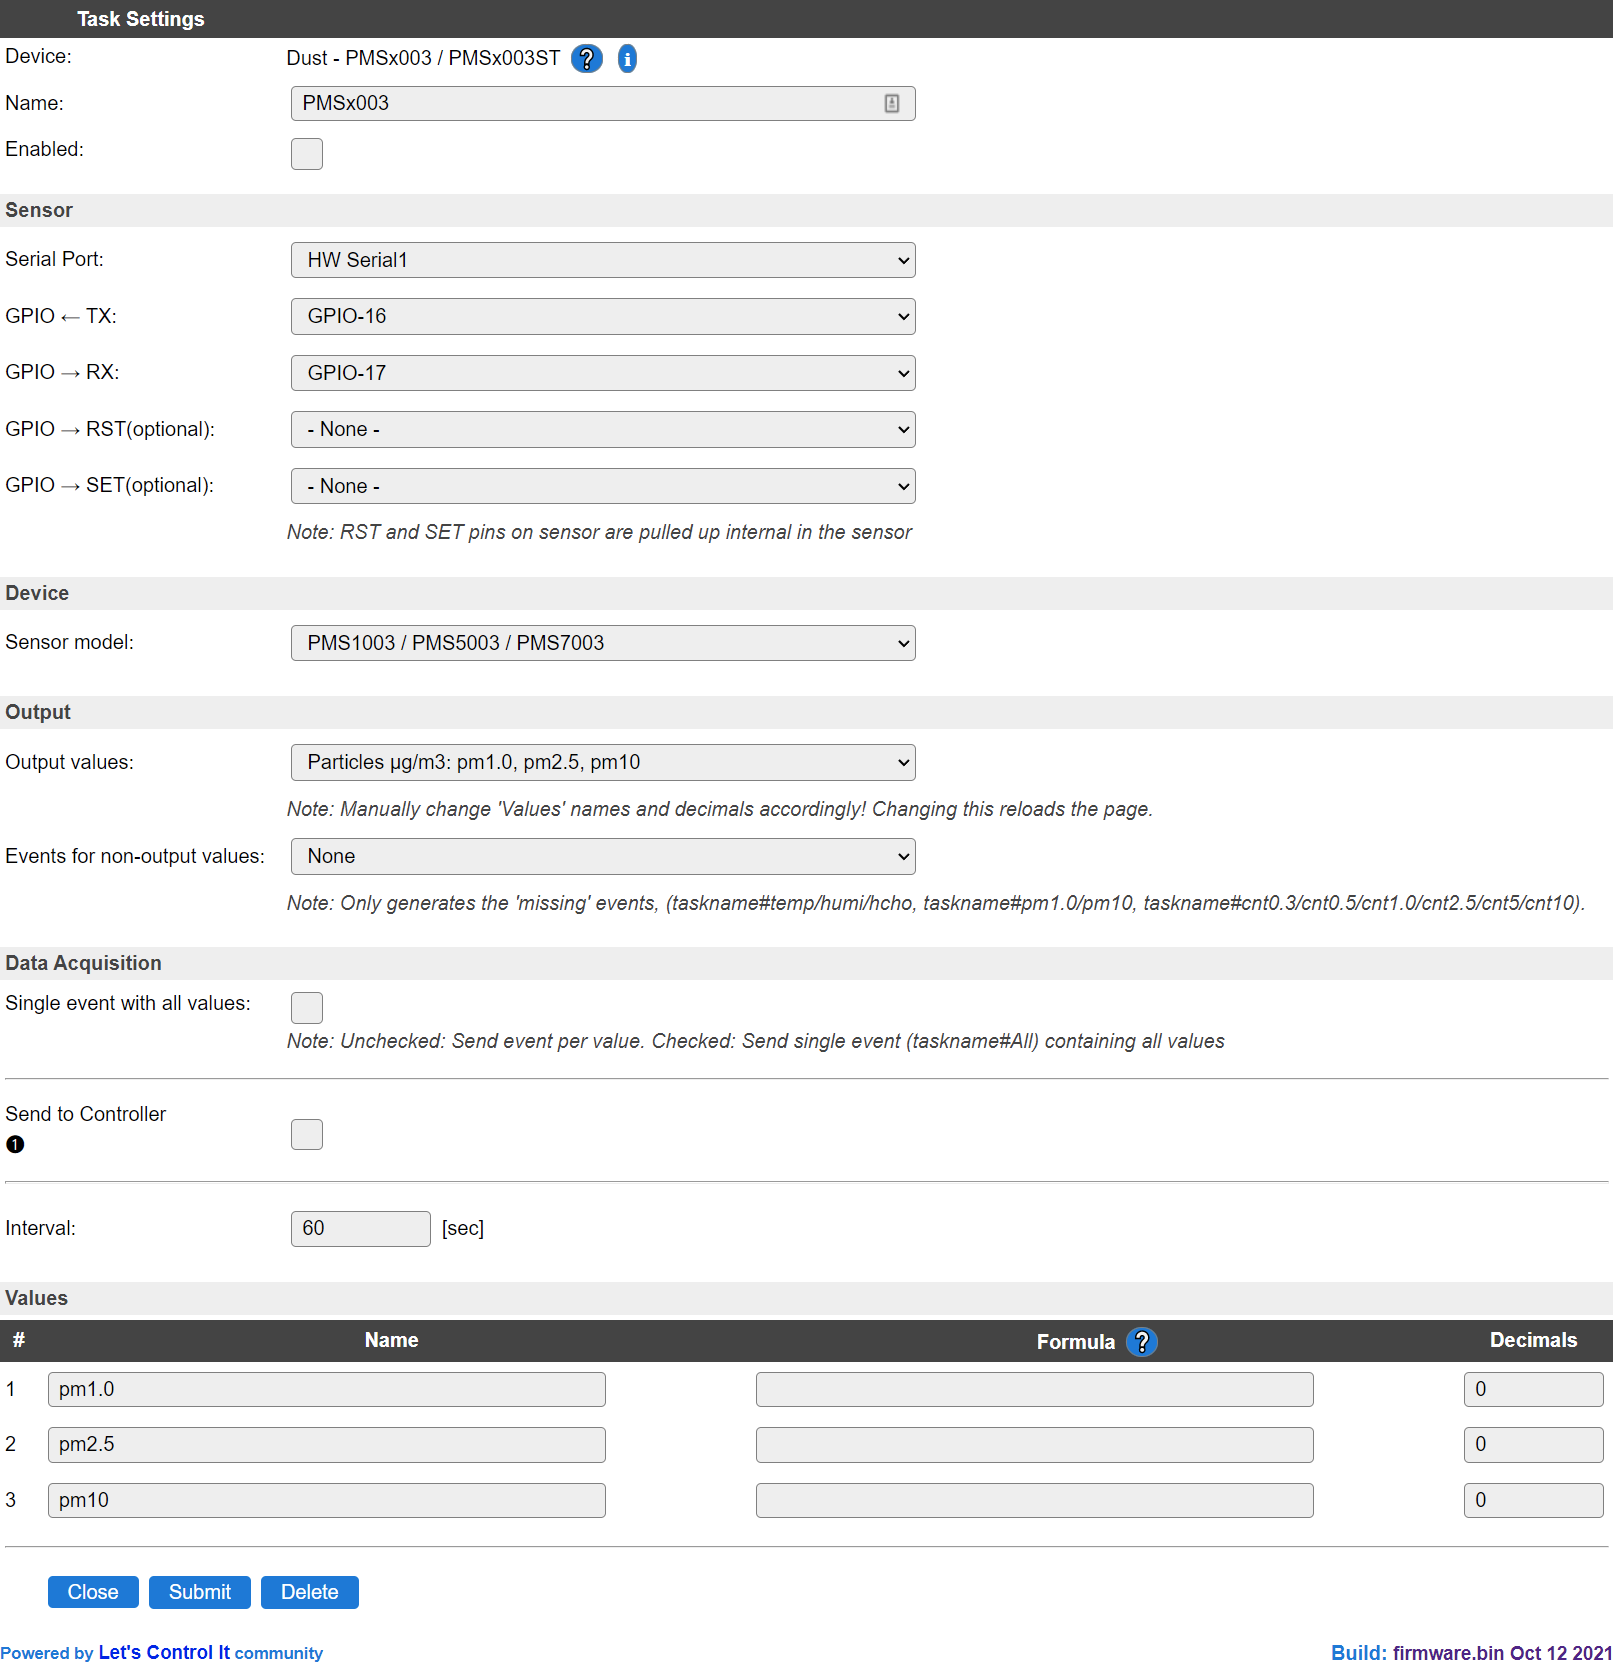
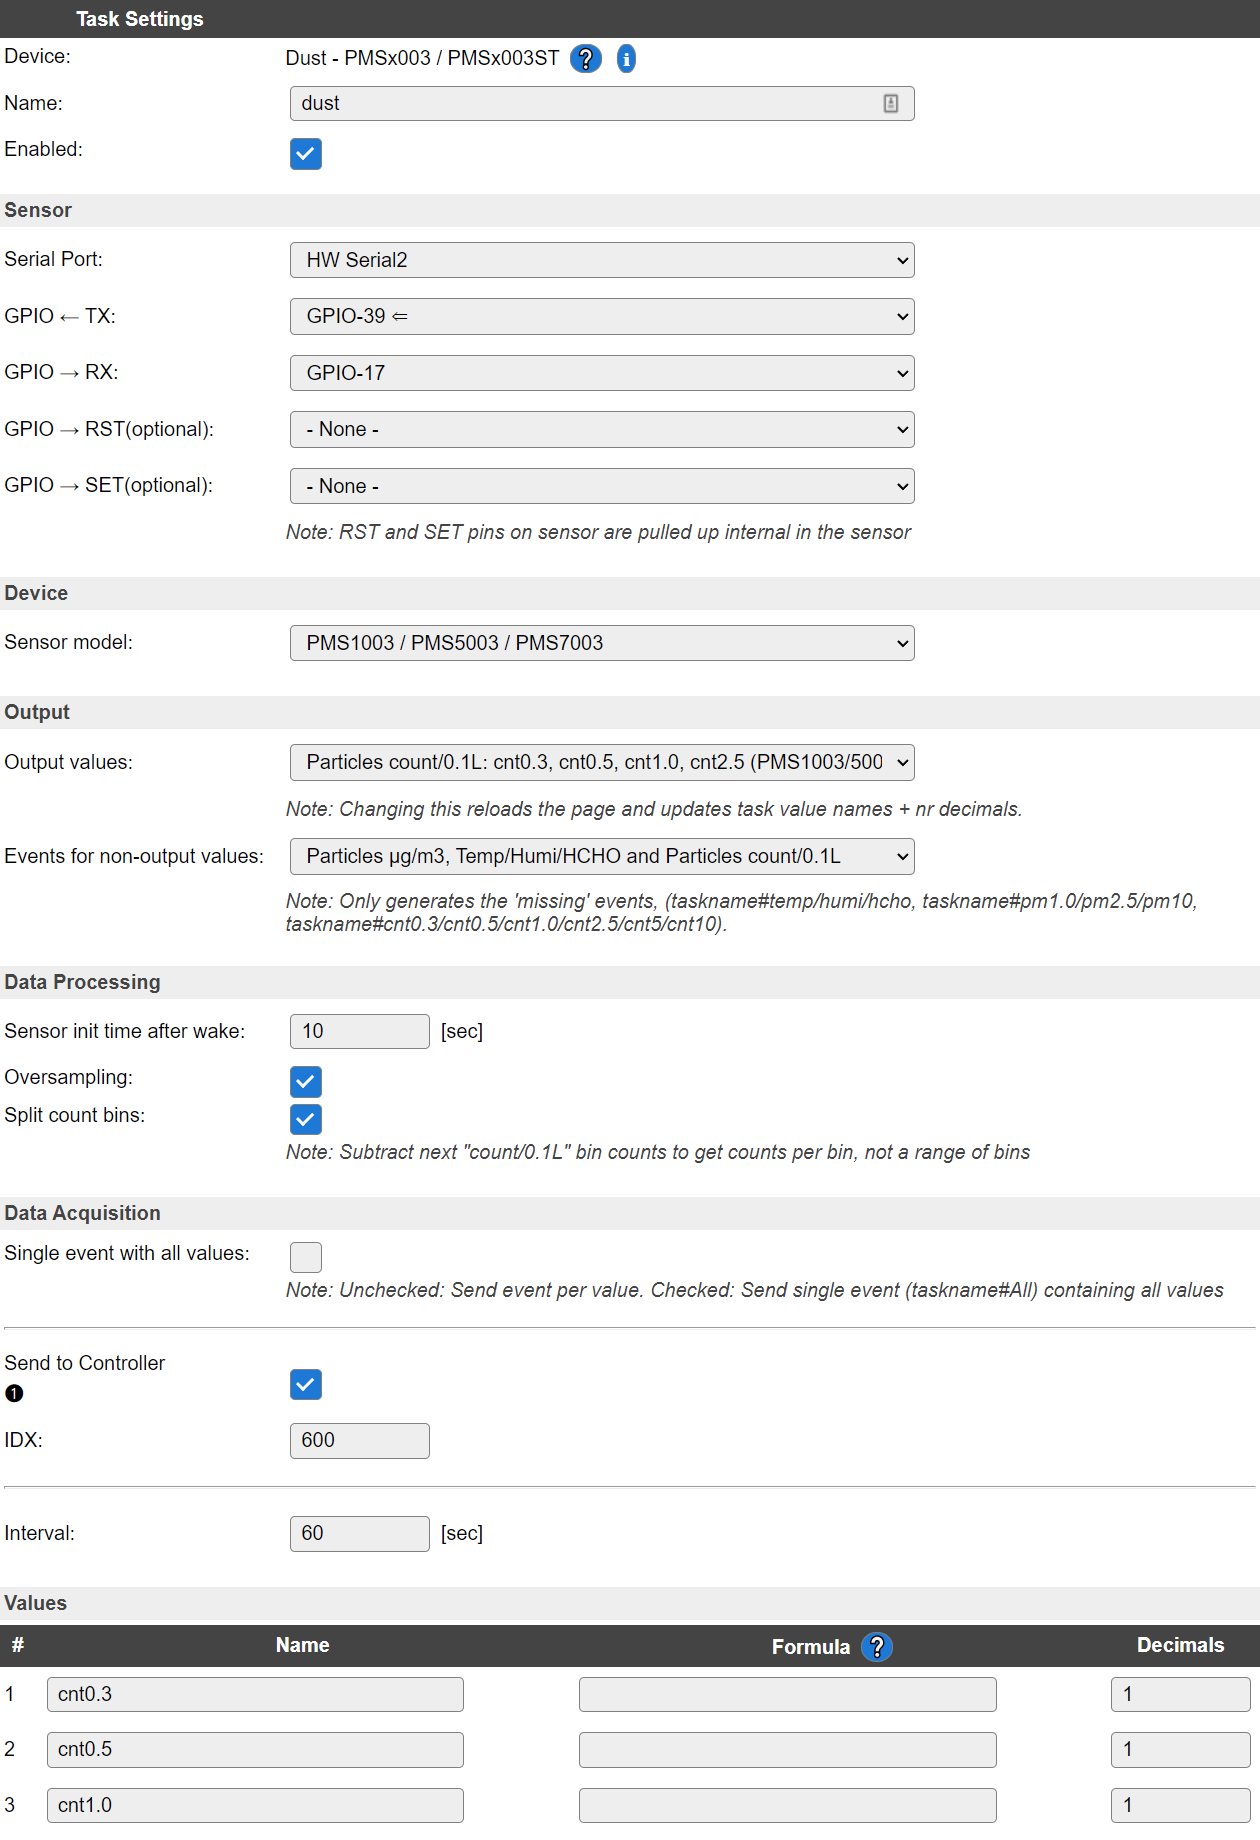
[PMSx003] Add sensor init time option after wake up sensor

diff --git a/src/src/PluginStructs/P053_data_struct.cpp b/src/src/PluginStructs/P053_data_struct.cpp
@@ -44,19 +44,20 @@ P053_data_struct::P053_data_struct(
   const ESPEasySerialPort port,
   int8_t                  resetPin,
   int8_t                  pwrPin,
-  PMSx003_type            sensortype
-  # ifdef                 PLUGIN_053_ENABLE_EXTRA_SENSORS
-  ,
-  bool                    oversample,
-  bool                    splitCntBins
-  # endif // ifdef PLUGIN_053_ENABLE_EXTRA_SENSORS
+  PMSx003_type            sensortype,
+  uint32_t                delay_read_after_wakeup_ms
+# ifdef                   PLUGIN_053_ENABLE_EXTRA_SENSORS
+  , bool                  oversample
+  , bool                  splitCntBins
+# endif // ifdef PLUGIN_053_ENABLE_EXTRA_SENSORS
   )
   : _taskIndex(TaskIndex),
   _sensortype(sensortype),
-  # ifdef PLUGIN_053_ENABLE_EXTRA_SENSORS
+# ifdef PLUGIN_053_ENABLE_EXTRA_SENSORS
   _oversample(oversample),
   _splitCntBins(splitCntBins),
-   # endif // ifdef PLUGIN_053_ENABLE_EXTRA_SENSORS
+# endif // ifdef PLUGIN_053_ENABLE_EXTRA_SENSORS
+  _delay_read_after_wakeup_ms(delay_read_after_wakeup_ms),
   _resetPin(resetPin), _pwrPin(pwrPin)
 {
   # ifndef BUILD_NO_DEBUG
@@ -70,6 +71,8 @@ P053_data_struct::P053_data_struct(
     log += txPin;
     log += ' ';
     log += _resetPin;
+    log += ' ';
+    log += _pwrPin;
     addLog(LOG_LEVEL_DEBUG, log);
   }
   # endif // ifndef BUILD_NO_DEBUG
@@ -324,47 +327,54 @@ bool P053_data_struct::processData(struct EventStruct *event) {
   SerialRead16(checksum2, nullptr);
   SerialFlush(); // Make sure no data is lost due to full buffer.
 
-  if (checksum == checksum2)
-  {
-    if (checksum == _last_checksum) {
-      // Duplicate message
+  if (checksum != checksum2) {
+    addLog(LOG_LEVEL_ERROR, F("PMSx003 : Checksum error"));
+    return false;
+  }
+
+  if (_last_wakeup_moment.isSet() && !_last_wakeup_moment.timeReached()) {
+    if (loglevelActiveFor(LOG_LEVEL_INFO)) {
+      String log = F("PMSx003 : Less than ");
+      log += _delay_read_after_wakeup_ms / 1000ul;
+      log += F(" sec since sensor wakeup => Ignoring sample");
+      addLog(LOG_LEVEL_INFO, log);
+    }
+    return false;
+  }
+
+  if (checksum == _last_checksum) {
+    // Duplicate message
       # ifndef BUILD_NO_DEBUG
 
-      if (loglevelActiveFor(LOG_LEVEL_DEBUG)) { // Available on all supported sensor models
-        addLog(LOG_LEVEL_DEBUG, F("PMSx003 : Duplicate message"));
-      }
+    addLog(LOG_LEVEL_DEBUG, F("PMSx003 : Duplicate message"));
       # endif // ifndef BUILD_NO_DEBUG
-      return false;
-    }
-
-
+    return false;
+  }
     # ifndef PLUGIN_053_ENABLE_EXTRA_SENSORS
 
-    // Data is checked and good, fill in output
-    UserVar[event->BaseVarIndex]     = data[PMS_PM1_0_ug_m3_normal];
-    UserVar[event->BaseVarIndex + 1] = data[PMS_PM2_5_ug_m3_normal];
-    UserVar[event->BaseVarIndex + 2] = data[PMS_PM10_0_ug_m3_normal];
-    _values_received                 = 1;
+  // Data is checked and good, fill in output
+  UserVar[event->BaseVarIndex]     = data[PMS_PM1_0_ug_m3_normal];
+  UserVar[event->BaseVarIndex + 1] = data[PMS_PM2_5_ug_m3_normal];
+  UserVar[event->BaseVarIndex + 2] = data[PMS_PM10_0_ug_m3_normal];
+  _values_received                 = 1;
     # else // ifndef PLUGIN_053_ENABLE_EXTRA_SENSORS
 
-    // Store in the averaging buffer to process later
-    if (!_oversample) {
-      clearReceivedData();
-    }
+  // Store in the averaging buffer to process later
+  if (!_oversample) {
+    clearReceivedData();
+  }
 
-    for (uint8_t i = 0; i < PMS_RECEIVE_BUFFER_SIZE; ++i) {
-      _data[i] += data[i];
-    }
-    ++_values_received;
+  for (uint8_t i = 0; i < PMS_RECEIVE_BUFFER_SIZE; ++i) {
+    _data[i] += data[i];
+  }
+  ++_values_received;
     # endif // ifndef PLUGIN_053_ENABLE_EXTRA_SENSORS
 
 
-    // Store new checksum, to help detect duplicates.
-    _last_checksum = checksum;
+  // Store new checksum, to help detect duplicates.
+  _last_checksum = checksum;
 
-    return true;
-  }
-  return false;
+  return true;
 }
 
 bool P053_data_struct::checkAndClearValuesReceived(struct EventStruct *event) {
@@ -458,7 +468,6 @@ bool P053_data_struct::checkAndClearValuesReceived(struct EventStruct *event) {
       }
     }
   }
-  # endif // ifdef PLUGIN_053_ENABLE_EXTRA_SENSORS
 
   if (_oversample) {
     if (loglevelActiveFor(LOG_LEVEL_INFO)) {
@@ -468,6 +477,7 @@ bool P053_data_struct::checkAndClearValuesReceived(struct EventStruct *event) {
       addLog(LOG_LEVEL_INFO, log);
     }
   }
+  # endif // ifdef PLUGIN_053_ENABLE_EXTRA_SENSORS
 
   clearReceivedData();
   return true;
@@ -507,6 +517,12 @@ bool P053_data_struct::wakeSensor() {
   // No idea how old this data is, so clear it.
   // Otherwise oversampling may give weird results
   clearReceivedData();
+
+  if (_delay_read_after_wakeup_ms != 0) {
+    _last_wakeup_moment.setMillisFromNow(_delay_read_after_wakeup_ms);
+  } else {
+    _last_wakeup_moment.clear();
+  }
   return true;
 }
 

diff --git a/src/src/PluginStructs/P053_data_struct.h b/src/src/PluginStructs/P053_data_struct.h
@@ -7,6 +7,7 @@
 
 // # define P053_LOW_LEVEL_DEBUG
 
+# include "../Helpers/LongTermTimer.h"
 
 # include <ESPeasySerial.h>
 
@@ -63,6 +64,8 @@ const __FlashStringHelper* toString(PMSx003_event_datatype selection);
 
 # define PLUGIN_053_RST_PIN               CONFIG_PIN3
 # define PLUGIN_053_PWR_PIN               PCONFIG(3)
+
+# define PLUGIN_053_SEC_IGNORE_AFTER_WAKE PCONFIG(5)
 
 # define PLUGIN_053_DATA_PROCESSING_FLAGS PCONFIG(4)
 
@@ -121,12 +124,14 @@ public:
     const ESPEasySerialPort port,
     int8_t                  resetPin,
     int8_t                  pwrPin,
-    PMSx003_type            sensortype
-                   # ifdef  PLUGIN_053_ENABLE_EXTRA_SENSORS
+    PMSx003_type            sensortype,
+    uint32_t               delay_read_after_wakeup_ms
+# ifdef                     PLUGIN_053_ENABLE_EXTRA_SENSORS
     ,
-    bool                    oversample,
+    bool                    oversample
+    ,
     bool                    splitCntBins
-                   # endif // ifdef PLUGIN_053_ENABLE_EXTRA_SENSORS
+# endif // ifdef PLUGIN_053_ENABLE_EXTRA_SENSORS
     );
 
   P053_data_struct() = delete;
@@ -206,16 +211,18 @@ private:
   const taskIndex_t  _taskIndex  = INVALID_TASK_INDEX;
   const PMSx003_type _sensortype;
   # ifdef PLUGIN_053_ENABLE_EXTRA_SENSORS
-  float      _data[PMS_RECEIVE_BUFFER_SIZE] = { 0 };
   const bool _oversample                    = false;
   const bool _splitCntBins                  = false;
+  float      _data[PMS_RECEIVE_BUFFER_SIZE] = { 0 };
   uint32_t   _value_mask                    = 0; // Keeping track of values already sent.
   # endif // ifdef PLUGIN_053_ENABLE_EXTRA_SENSORS
-  uint32_t     _values_received          = 0;
-  uint16_t     _last_checksum            = 0;    // To detect duplicate messages
-  const int8_t _resetPin                 = -1;
-  const int8_t _pwrPin                   = -1;
-  bool         _activeReadingModeEnabled = true;
+  LongTermTimer  _last_wakeup_moment;
+  const uint32_t _delay_read_after_wakeup_ms = 0;
+  uint32_t       _values_received            = 0;
+  uint16_t       _last_checksum              = 0; // To detect duplicate messages
+  const int8_t   _resetPin                   = -1;
+  const int8_t   _pwrPin                     = -1;
+  bool           _activeReadingModeEnabled   = true;
 };
 
 

diff --git a/docs/source/Plugin/P053.rst b/docs/source/Plugin/P053.rst
@@ -77,6 +77,8 @@ For example:
 * cnt2.5/100ml indicates the number of particles with diameter **beyond** 2.5 micrometres in 0.1 L of air. (datasheet Plantower PMS5003)
 
 .. note:: ``PMxx`` values relate to particles **less than or equal** to said size, while count/100ml relates to  particles of **at least** said size.
+   Except when "Split count bins" is checked, then the "count/0.1L" values represent only a single bin.
+
 
 Effects of Humidity
 """""""""""""""""""
@@ -265,7 +267,7 @@ Output values
 
 With most **Sensor model** options, except the PMS2003 and PMS3003 models, extra output values are available. To choose which values are made available in the task, this combobox provides the available options.
 
-.. note:: Changing this output selector will toggle a reload of the page. When the output selection has changed, the task value names will be reset to their (new) default names and the nr. of decimals will be set to proper values. (e.g. 1 decimal for temp/hum and 3 decimals for Formaldehyde)
+.. note:: Changing this output selector will toggle a reload of the page. When the output selection has changed, the task value names will be reset to their (new) default names and the nr. of decimals will be set to proper values. (e.g. 1 decimal for temp/hum and 3 decimals for Formaldehyde) The nr of decimals will be set to at least 1 when oversampling is enabled.
 
 Available options:
 
@@ -305,6 +307,7 @@ With:
 .. image:: P053_OutputValuesCnt.png
 
 .. note:: ``PMxx`` values relate to particles **less than or equal** to said size, while count/100ml relates to  particles of **at least** said size.
+   Except when "Split count bins" is checked, then the "count/0.1L" values represent only a single bin.
 
 
 Events for non-output values
@@ -355,6 +358,20 @@ Typically a sample is sent every 800 msec, with shorter intervals when the data 
 However, the sensor itself does not always have new data when a packet is sent by the sensor.
 These duplicate messages are detected and ignored.
 
+Sensor init time after wake
+"""""""""""""""""""""""""""
+
+The Plantower datasheet suggests to let the sensor run for at least 30 seconds after power on (or wake up) to get a reliable reading.
+
+When set to a value over 0 seconds, a timer will be set when the sensor is called to wakeup.
+During this period, any received sample will be ignored.
+
+If running the sensor at an interval to save energy consumption and extend the sensors lifetime, make sure the "active" duration is longer than this sensor init time.
+The sensor typically needs 2.3 seconds to complete a measurement.
+
+So a good duration for wake time is at least 35 - 40 seconds (oversampling enabled).
+
+
 Oversampling
 """"""""""""
 
@@ -368,14 +385,14 @@ The default nr of decimals will be set to 1 when oversampling is enabled. (may r
 .. note:: When putting the sensor to sleep, any collected data in the averaging buffer is flushed by scheduling a ``PLUGIN_READ``. This will output the data to any connected controller and generate the appropriate events.
    Any data still present in the buffer when waking the sensor is flushed, to make sure no old and new data is merged.
 
-Split 'count/0.1L' Bins
+Split count bins
 """""""""""""""""""""""
 
 The "count/0.1L" values are based on particles with at least the given size.
 Thus a ``cnt0.3`` value describes all particles with a size of at least 0.3 micron.
 
 In some use cases it can be useful to count only the particles of a specific size, like 0.3 ... 0.5 micron.
-When "Split 'count/0.1L' Bins" is checked, the recorded counted values will be split over single bins.
+When "Split count bins" is checked, the recorded counted values will be split over single bins.
 
 
 Lifetime Helper
